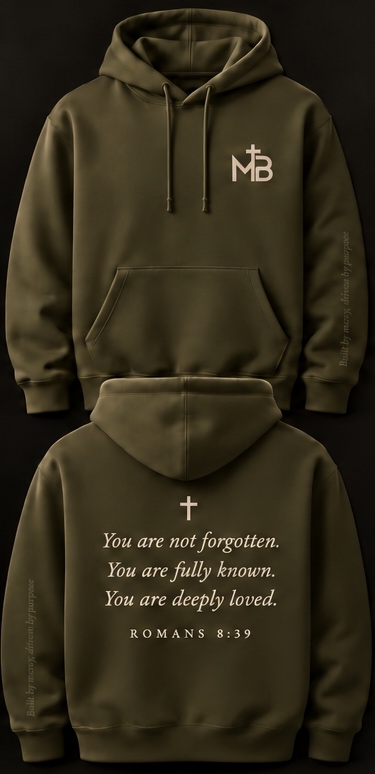
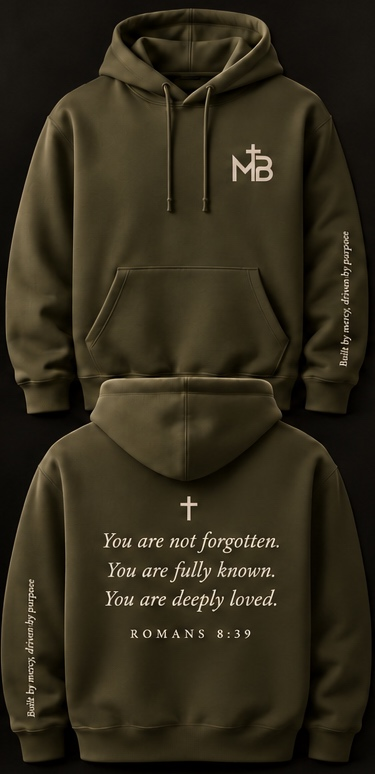
Revert "Use tonal sleeve lettering across hoodie previews"
This reverts commit b2077b0aaba2aa174bac1bfb99ac493bff6438e5.

diff --git a/index.html b/index.html
@@ -4,6 +4,6 @@
 .product-card .card-preorder{display:inline-block;margin-top:14px}
 .interest-form .form-status{margin:8px 0 0;font-size:.95rem}
 .interest-form .form-status.error{color:#ff8a80}
-</style></head><body><header class="site-header" aria-label="Site header"><a class="brand-lockup" href="#top" aria-label="Mercy Built home"><img class="header-logo" src="assets/mercy-built-logo.jpg" alt="Mercy Built"/></a><nav aria-label="Primary navigation"><a href="#story">Story</a><a href="#drop">First Drop</a><a href="#sports">Sports</a><a href="#bracelets">Bracelets</a><a href="#email">Join</a><a href="#want">Tell Us</a><a class="nav-preorder" href="preorder/">Preorder the hoodie</a></nav></header><main id="top"><section class="hero"><div class="hero-card hero-photo" aria-label="Mercy Built apparel preview"><img class="hero-product-image" src="assets/mercy-built-hero-products.png" alt="Mercy Built hats, tees, and polo in warm studio light"/></div><div class="hero-copy"><p class="eyebrow">Christian apparel for every occasion</p><h1>Not self-made.<br/>Mercy built.</h1><p class="lead">Built for training, everyday wear, the course, and wherever faith has to show up quietly without pretending we have it all figured out.</p><div class="hero-actions"><a class="button" href="preorder/">Request a hoodie preorder</a><dialog id="hoodie-dialog" class="hoodie-preorder" aria-labelledby="hoodie-title"><button class="hoodie-close" type="button" aria-label="Close hoodie preorder">×</button><p class="eyebrow">Mercy Built first release</p><h2 id="hoodie-title">Hoodie preorders</h2><form class="interest-form" action="/api/interest" method="post"><p>Pick your size and color. We’ll email you when it’s time to order. No payment is due today.</p><input type="hidden" name="form_type" value="hoodie-preorder"/><div class="form-row form-row-grid"><label class="field-stack">Size<select name="preferred_size" required=""><option value="" disabled="" selected="">Choose size</option><option>XS</option><option>S</option><option>M</option><option>L</option><option>XL</option><option>2XL</option><option>3XL</option></select></label><label class="field-stack">Color<select name="preferred_color" required=""><option value="" disabled="" selected="">Choose color</option><option>Black</option><option>Olive</option><option>Cream</option><option>Blush Pink</option></select></label></div><label class="field-stack">Name<input autoComplete="name" maxLength="120" required="" name="name"/></label><label class="field-stack">Email address<input type="email" autoComplete="email" maxLength="180" required="" name="email"/></label><button type="submit">Send preorder request</button></form></dialog><a class="text-link" href="#story">Read the story</a></div></div></section><section id="story" class="story section-grid"><div><p class="eyebrow">The foundation</p><h2>Built by mercy, not ego.</h2></div><div class="story-copy"><p>Mercy Built began with a personal faith journey: baptism, surrender, and the daily work of becoming a better Christian man. The name is a reminder that strength does not start with pride. It starts with God meeting us in our weakness and rebuilding us by His mercy.</p><p>This is apparel for people still being formed. For training hard, leading humbly, falling short, getting back up, and continuing to walk with Christ.</p></div></section><section id="drop" class="drop"><div class="section-heading"><p class="eyebrow">First drop direction</p><h2>Faith-built essentials.</h2></div><figure class="product-board"><img src="assets/mercy-built-hats-polos.png" alt="Mercy Built black and cream hats with olive and black golf polos"/></figure><figure class="product-board product-board-small"><img src="assets/mercy-built-womens-pink-set.png" alt="Mercy Built blush pink hat and women&#x27;s polo with black MB cross logo"/></figure><figure class="product-board"><img src="assets/mercy-built-tees-corinthians.jpg" alt="Mercy Built tees in black, olive, cream, and pink with left chest logo and 2 Corinthians 5:17 back verse"/></figure><figure class="product-board"><img src="assets/mercy-built-hoodies-romans.jpg?v=tonal" alt="Mercy Built hoodies in four colors with lettering on the left sleeve and the Romans 8:39 back message"/></figure><figure class="product-board"><img src="assets/mercy-built-womens-sweatpants.png" alt="Mercy Built women&#x27;s sweatpants in black, olive, cream, and pink with MB cross logo"/></figure><figure class="product-board"><img src="assets/mercy-built-training-collection.png" alt="Mercy Built premium training collection with gym shorts, leggings, workout shirts, and tanks"/></figure><figure class="product-board"><img src="assets/mercy-built-womens-fit-standard.png" alt="Mercy Built women&#x27;s leggings and shorts fit standard with no front seam, shorter shorts, and sculpting fit"/></figure><div class="product-grid" aria-label="First drop product concepts"><article class="product-card"><span class="product-tag">01</span><h3>Training Tees</h3><p>Black, olive, cream, and pink tees with a small left-chest MB mark and a 2 Corinthians 5:17 back design about being made new.</p></article><article class="product-card product-card-featured"><span class="product-tag">02</span><h3>Everyday Hats</h3><p>Black, cream, charcoal, and olive caps with the MB cross mark up front and short scripture references on the side.</p></article><article class="product-card"><span class="product-tag">03</span><h3>Golf Polos</h3><p>Refined performance polos with a subtle MB chest mark, made to carry the brand without feeling loud.</p></article><article class="product-card"><span class="product-tag">04</span><h3>Hoodies</h3><p>A heavier comfort piece with a quiet front mark and the Romans 8:39 back message, “You are not forgotten. You are fully known. You are deeply loved.”</p><p>“Built by mercy, driven by purpose” runs up the left sleeve on every color.</p><a class="button card-preorder" href="preorder/">Preorder the hoodie</a></article><article class="product-card product-card-featured"><span class="product-tag">05</span><h3>Women&#x27;s Sweatpants</h3><p>Soft fleece sweats in black, olive, cream, and pink with a small MB cross mark and quiet scripture detail.</p></article><article class="product-card"><span class="product-tag">06</span><h3>Training Collection</h3><p>Premium-feel gym shorts, leggings, workout shirts, and tanks with smooth performance fabric and quiet MB details.</p></article><article class="product-card product-card-featured"><span class="product-tag">07</span><h3>Women&#x27;s Fit Standard</h3><p>No front seam, shorter training shorts, high-rise support, buttery-soft fabric, and a sculpting fit designed to flatter.</p></article></div></section><section id="sports" class="drop sports-section" aria-labelledby="sports-heading"><div class="section-heading"><p class="eyebrow">MercyBuilt Sport · Coming soon</p><h2 id="sports-heading">Faith in every arena.</h2><p class="collection-intro">On the mats. In the ring. On the course. On the field. Carry the same foundation into every discipline.</p></div><figure class="product-board concept-board"><a href="assets/mercy-built-sports-options-v2.png" target="_blank" rel="noopener noreferrer" aria-label="View full-size MercyBuilt sports picture options"><img src="assets/mercy-built-sports-options-v3.png" alt="MercyBuilt sport shirt design options A and B for MMA, BJJ, Jiu Jitsu, Muay Thai, Golf, and Baseball"/></a><figcaption>Picture options A &amp; B for every sport: cool Mercy Built shirts with the sport name, plus rash guards and shorts where they fit. All sports collections coming soon. Tap to view full size.</figcaption></figure><div class="product-grid" aria-label="MercyBuilt sports collections"><article class="product-card"><span class="product-tag">MercyBuilt Sport / 01</span><h3>MercyBuilt MMA</h3><span class="coming-soon-badge">Coming soon</span><p>Cool Mercy Built MMA shirts, plus rash guards and fight shorts for the work between rounds.</p></article><article class="product-card product-card-featured"><span class="product-tag">MercyBuilt Sport / 02</span><h3>MercyBuilt BJJ</h3><span class="coming-soon-badge">Coming soon</span><p>Mercy Built BJJ shirts alongside Brazilian Jiu Jitsu rash guards and grappling shorts.</p></article><article class="product-card"><span class="product-tag">MercyBuilt Sport / 03</span><h3>MercyBuilt Jiu Jitsu</h3><span class="coming-soon-badge">Coming soon</span><p>Mercy Built Jiu Jitsu shirts, rash guards, and shorts for the Jiu Jitsu community.</p></article><article class="product-card product-card-featured"><span class="product-tag">MercyBuilt Sport / 04</span><h3>MercyBuilt Muay Thai</h3><span class="coming-soon-badge">Coming soon</span><p>Mercy Built Muay Thai shirts with rash guards and Thai shorts shaped around discipline.</p></article><article class="product-card"><span class="product-tag">MercyBuilt Sport / 05</span><h3>MercyBuilt Golf</h3><span class="coming-soon-badge">Coming soon</span><p>Simple sport shirts that say Mercy Built Golf, with subtle hats and layers for every round.</p></article><article class="product-card product-card-featured"><span class="product-tag">MercyBuilt Sport / 06</span><h3>MercyBuilt Baseball</h3><span class="coming-soon-badge">Coming soon</span><p>Simple shirts that say Mercy Built Baseball, with caps and practice-ready layers.</p></article></div><div class="collection-footer"><p>These collections are in development. Tell us which sport and gear you want to see first.</p><a class="text-link" href="#want">Choose your collection →</a></div></section><section id="bracelets" class="drop bracelets-section" aria-labelledby="bracelets-heading"><div class="section-heading"><p class="eyebrow">Everyday reminders · Bracelet concepts</p><h2 id="bracelets-heading">Small reminder.<br/>Strong foundation.</h2><p class="collection-intro">A simple way to carry MercyBuilt with you, share your faith, or give someone a little encouragement.</p></div><figure class="product-board concept-board"><a href="assets/mercy-built-bracelet-options.png" target="_blank" rel="noopener noreferrer" aria-label="View full-size MercyBuilt bracelet picture options"><img src="assets/mercy-built-bracelet-options.png" alt="Three MercyBuilt bracelet design options: silicone bands in four colors, Not Self-Made scripture bands, and adjustable woven bracelets"/></a><figcaption>Compare A: Mercy Built Band, B: Scripture Band, and C: Daily Mercy. Design mockups. Tap to view full size.</figcaption></figure><div class="product-grid" aria-label="MercyBuilt bracelet concepts"><article class="product-card product-card-featured"><span class="product-tag">01 / Silicone</span><h3>Mercy Built Band</h3><p>A simple silicone wristband concept with MERCY BUILT lettering. Black, olive, cream, and pink color directions.</p></article><article class="product-card"><span class="product-tag">02 / Scripture</span><h3>Not Self-Made</h3><p>NOT SELF-MADE. MERCY BUILT. on the outside, with Romans 8:39 as a quiet reminder inside the band.</p></article><article class="product-card product-card-featured"><span class="product-tag">03 / Woven</span><h3>Daily Mercy</h3><p>An adjustable woven bracelet concept with a small MercyBuilt detail. Understated enough for everyday wear.</p></article></div><div class="collection-footer"><p>Individual bands and shareable packs are being explored. Final materials, sizing, and pricing will follow sampling.</p><a class="text-link" href="#want">Tell us your bracelet pick →</a></div></section><section id="join" class="join"><div><p class="eyebrow">Coming soon</p><h2>Get first-drop updates.</h2><p>Drop your email and we will keep you updated as Mercy Built gets ready to launch.</p></div><form class="signup interest-form" name="first-drop-interest" action="/api/interest" method="post"><div class="field-stack"><label for="email">Email address</label><input id="email" type="email" placeholder="you@example.com" autoComplete="email" required="" name="email"/></div><button type="submit">Keep me updated</button><p class="form-note">No spam. Just Mercy Built launch updates and first-drop news.</p></form></section><section id="want" class="join want-section"><div><p class="eyebrow">First order</p><h2>Tell us what you want.</h2><p>Help us order smarter. Pick the item, size, and color you would actually buy when the first drop opens.</p></div><form class="signup interest-form" name="first-drop-product-interest" action="/api/interest" method="post"><input type="hidden" name="form_type" value="product-interest"/><div class="field-stack"><label for="want-email">Email address</label><input id="want-email" type="email" placeholder="you@example.com" autoComplete="email" required="" name="email"/></div><div class="field-stack"><label for="want-name">Name</label><input id="want-name" type="text" placeholder="Your name" autoComplete="name" name="name"/></div><div class="field-stack"><label for="product">What do you want?</label><select id="product" name="product_interest" required=""><option value="">Pick one</option><option>2 Corinthians 5:17 tee</option><option>Romans 8:39 hoodie</option><option>MB cross hat</option><option>Psalm side-stitch hat</option><option>Golf polo</option><option>Women&#x27;s pink hat / polo</option><option>Women&#x27;s sweatpants</option><option>Men&#x27;s gym shorts</option><option>Women&#x27;s no-front-seam short leggings</option><option>Women&#x27;s no-front-seam full-length leggings</option><option>Women&#x27;s shorter training shorts</option><option>Men&#x27;s workout shirt</option><option>Women&#x27;s workout shirt</option><option>Training tank</option><optgroup label="MercyBuilt Sport"><option>MercyBuilt MMA</option><option>MercyBuilt BJJ</option><option>MercyBuilt Jiu Jitsu</option><option>MercyBuilt Muay Thai</option><option>MercyBuilt Golf</option><option>MercyBuilt Baseball</option></optgroup><optgroup label="MercyBuilt Bracelets"><option>Mercy Built silicone band</option><option>Not Self-Made scripture band</option><option>Daily Mercy woven bracelet</option><option>Bracelet multipack</option></optgroup><option>Multiple designs</option></select></div><div class="form-row form-row-grid"><div class="field-stack"><label for="size">Preferred size</label><select id="size" name="preferred_size"><option value="">Pick size</option><option>XS</option><option>S</option><option>M</option><option>L</option><option>XL</option><option>2XL</option><option>3XL</option><option>Hat only</option></select></div><div class="field-stack"><label for="color">Favorite color</label><select id="color" name="preferred_color"><option value="">Pick color</option><option>Black</option><option>Olive</option><option>Cream</option><option>Pink</option><option>Charcoal</option><option>No preference</option></select></div></div><div class="field-stack"><label for="quantity">Likely quantity</label><select id="quantity" name="quantity"><option>1</option><option>2</option><option>3</option><option>4+</option></select></div><div class="field-stack"><label for="notes">Anything else?</label><textarea id="notes" name="notes" rows="4" placeholder="Favorite fit, another color, another verse, or the design you want most."></textarea></div><button type="submit">Save my interest</button><p class="form-note">This saves to the same first-drop list so we can see what people are asking for.</p></form></section></main><footer><span>Mercy Built</span><span>Built by mercy. Proven daily.</span></footer><script src="https://cdn.jsdelivr.net/npm/@supabase/supabase-js@2"></script>
+</style></head><body><header class="site-header" aria-label="Site header"><a class="brand-lockup" href="#top" aria-label="Mercy Built home"><img class="header-logo" src="assets/mercy-built-logo.jpg" alt="Mercy Built"/></a><nav aria-label="Primary navigation"><a href="#story">Story</a><a href="#drop">First Drop</a><a href="#sports">Sports</a><a href="#bracelets">Bracelets</a><a href="#email">Join</a><a href="#want">Tell Us</a><a class="nav-preorder" href="preorder/">Preorder the hoodie</a></nav></header><main id="top"><section class="hero"><div class="hero-card hero-photo" aria-label="Mercy Built apparel preview"><img class="hero-product-image" src="assets/mercy-built-hero-products.png" alt="Mercy Built hats, tees, and polo in warm studio light"/></div><div class="hero-copy"><p class="eyebrow">Christian apparel for every occasion</p><h1>Not self-made.<br/>Mercy built.</h1><p class="lead">Built for training, everyday wear, the course, and wherever faith has to show up quietly without pretending we have it all figured out.</p><div class="hero-actions"><a class="button" href="preorder/">Request a hoodie preorder</a><dialog id="hoodie-dialog" class="hoodie-preorder" aria-labelledby="hoodie-title"><button class="hoodie-close" type="button" aria-label="Close hoodie preorder">×</button><p class="eyebrow">Mercy Built first release</p><h2 id="hoodie-title">Hoodie preorders</h2><form class="interest-form" action="/api/interest" method="post"><p>Pick your size and color. We’ll email you when it’s time to order. No payment is due today.</p><input type="hidden" name="form_type" value="hoodie-preorder"/><div class="form-row form-row-grid"><label class="field-stack">Size<select name="preferred_size" required=""><option value="" disabled="" selected="">Choose size</option><option>XS</option><option>S</option><option>M</option><option>L</option><option>XL</option><option>2XL</option><option>3XL</option></select></label><label class="field-stack">Color<select name="preferred_color" required=""><option value="" disabled="" selected="">Choose color</option><option>Black</option><option>Olive</option><option>Cream</option><option>Blush Pink</option></select></label></div><label class="field-stack">Name<input autoComplete="name" maxLength="120" required="" name="name"/></label><label class="field-stack">Email address<input type="email" autoComplete="email" maxLength="180" required="" name="email"/></label><button type="submit">Send preorder request</button></form></dialog><a class="text-link" href="#story">Read the story</a></div></div></section><section id="story" class="story section-grid"><div><p class="eyebrow">The foundation</p><h2>Built by mercy, not ego.</h2></div><div class="story-copy"><p>Mercy Built began with a personal faith journey: baptism, surrender, and the daily work of becoming a better Christian man. The name is a reminder that strength does not start with pride. It starts with God meeting us in our weakness and rebuilding us by His mercy.</p><p>This is apparel for people still being formed. For training hard, leading humbly, falling short, getting back up, and continuing to walk with Christ.</p></div></section><section id="drop" class="drop"><div class="section-heading"><p class="eyebrow">First drop direction</p><h2>Faith-built essentials.</h2></div><figure class="product-board"><img src="assets/mercy-built-hats-polos.png" alt="Mercy Built black and cream hats with olive and black golf polos"/></figure><figure class="product-board product-board-small"><img src="assets/mercy-built-womens-pink-set.png" alt="Mercy Built blush pink hat and women&#x27;s polo with black MB cross logo"/></figure><figure class="product-board"><img src="assets/mercy-built-tees-corinthians.jpg" alt="Mercy Built tees in black, olive, cream, and pink with left chest logo and 2 Corinthians 5:17 back verse"/></figure><figure class="product-board"><img src="assets/mercy-built-hoodies-romans.jpg?v=sleeves" alt="Mercy Built hoodies in four colors with lettering on the left sleeve and the Romans 8:39 back message"/></figure><figure class="product-board"><img src="assets/mercy-built-womens-sweatpants.png" alt="Mercy Built women&#x27;s sweatpants in black, olive, cream, and pink with MB cross logo"/></figure><figure class="product-board"><img src="assets/mercy-built-training-collection.png" alt="Mercy Built premium training collection with gym shorts, leggings, workout shirts, and tanks"/></figure><figure class="product-board"><img src="assets/mercy-built-womens-fit-standard.png" alt="Mercy Built women&#x27;s leggings and shorts fit standard with no front seam, shorter shorts, and sculpting fit"/></figure><div class="product-grid" aria-label="First drop product concepts"><article class="product-card"><span class="product-tag">01</span><h3>Training Tees</h3><p>Black, olive, cream, and pink tees with a small left-chest MB mark and a 2 Corinthians 5:17 back design about being made new.</p></article><article class="product-card product-card-featured"><span class="product-tag">02</span><h3>Everyday Hats</h3><p>Black, cream, charcoal, and olive caps with the MB cross mark up front and short scripture references on the side.</p></article><article class="product-card"><span class="product-tag">03</span><h3>Golf Polos</h3><p>Refined performance polos with a subtle MB chest mark, made to carry the brand without feeling loud.</p></article><article class="product-card"><span class="product-tag">04</span><h3>Hoodies</h3><p>A heavier comfort piece with a quiet front mark and the Romans 8:39 back message, “You are not forgotten. You are fully known. You are deeply loved.”</p><p>“Built by mercy, driven by purpose” runs up the left sleeve on every color.</p><a class="button card-preorder" href="preorder/">Preorder the hoodie</a></article><article class="product-card product-card-featured"><span class="product-tag">05</span><h3>Women&#x27;s Sweatpants</h3><p>Soft fleece sweats in black, olive, cream, and pink with a small MB cross mark and quiet scripture detail.</p></article><article class="product-card"><span class="product-tag">06</span><h3>Training Collection</h3><p>Premium-feel gym shorts, leggings, workout shirts, and tanks with smooth performance fabric and quiet MB details.</p></article><article class="product-card product-card-featured"><span class="product-tag">07</span><h3>Women&#x27;s Fit Standard</h3><p>No front seam, shorter training shorts, high-rise support, buttery-soft fabric, and a sculpting fit designed to flatter.</p></article></div></section><section id="sports" class="drop sports-section" aria-labelledby="sports-heading"><div class="section-heading"><p class="eyebrow">MercyBuilt Sport · Coming soon</p><h2 id="sports-heading">Faith in every arena.</h2><p class="collection-intro">On the mats. In the ring. On the course. On the field. Carry the same foundation into every discipline.</p></div><figure class="product-board concept-board"><a href="assets/mercy-built-sports-options-v2.png" target="_blank" rel="noopener noreferrer" aria-label="View full-size MercyBuilt sports picture options"><img src="assets/mercy-built-sports-options-v3.png" alt="MercyBuilt sport shirt design options A and B for MMA, BJJ, Jiu Jitsu, Muay Thai, Golf, and Baseball"/></a><figcaption>Picture options A &amp; B for every sport: cool Mercy Built shirts with the sport name, plus rash guards and shorts where they fit. All sports collections coming soon. Tap to view full size.</figcaption></figure><div class="product-grid" aria-label="MercyBuilt sports collections"><article class="product-card"><span class="product-tag">MercyBuilt Sport / 01</span><h3>MercyBuilt MMA</h3><span class="coming-soon-badge">Coming soon</span><p>Cool Mercy Built MMA shirts, plus rash guards and fight shorts for the work between rounds.</p></article><article class="product-card product-card-featured"><span class="product-tag">MercyBuilt Sport / 02</span><h3>MercyBuilt BJJ</h3><span class="coming-soon-badge">Coming soon</span><p>Mercy Built BJJ shirts alongside Brazilian Jiu Jitsu rash guards and grappling shorts.</p></article><article class="product-card"><span class="product-tag">MercyBuilt Sport / 03</span><h3>MercyBuilt Jiu Jitsu</h3><span class="coming-soon-badge">Coming soon</span><p>Mercy Built Jiu Jitsu shirts, rash guards, and shorts for the Jiu Jitsu community.</p></article><article class="product-card product-card-featured"><span class="product-tag">MercyBuilt Sport / 04</span><h3>MercyBuilt Muay Thai</h3><span class="coming-soon-badge">Coming soon</span><p>Mercy Built Muay Thai shirts with rash guards and Thai shorts shaped around discipline.</p></article><article class="product-card"><span class="product-tag">MercyBuilt Sport / 05</span><h3>MercyBuilt Golf</h3><span class="coming-soon-badge">Coming soon</span><p>Simple sport shirts that say Mercy Built Golf, with subtle hats and layers for every round.</p></article><article class="product-card product-card-featured"><span class="product-tag">MercyBuilt Sport / 06</span><h3>MercyBuilt Baseball</h3><span class="coming-soon-badge">Coming soon</span><p>Simple shirts that say Mercy Built Baseball, with caps and practice-ready layers.</p></article></div><div class="collection-footer"><p>These collections are in development. Tell us which sport and gear you want to see first.</p><a class="text-link" href="#want">Choose your collection →</a></div></section><section id="bracelets" class="drop bracelets-section" aria-labelledby="bracelets-heading"><div class="section-heading"><p class="eyebrow">Everyday reminders · Bracelet concepts</p><h2 id="bracelets-heading">Small reminder.<br/>Strong foundation.</h2><p class="collection-intro">A simple way to carry MercyBuilt with you, share your faith, or give someone a little encouragement.</p></div><figure class="product-board concept-board"><a href="assets/mercy-built-bracelet-options.png" target="_blank" rel="noopener noreferrer" aria-label="View full-size MercyBuilt bracelet picture options"><img src="assets/mercy-built-bracelet-options.png" alt="Three MercyBuilt bracelet design options: silicone bands in four colors, Not Self-Made scripture bands, and adjustable woven bracelets"/></a><figcaption>Compare A: Mercy Built Band, B: Scripture Band, and C: Daily Mercy. Design mockups. Tap to view full size.</figcaption></figure><div class="product-grid" aria-label="MercyBuilt bracelet concepts"><article class="product-card product-card-featured"><span class="product-tag">01 / Silicone</span><h3>Mercy Built Band</h3><p>A simple silicone wristband concept with MERCY BUILT lettering. Black, olive, cream, and pink color directions.</p></article><article class="product-card"><span class="product-tag">02 / Scripture</span><h3>Not Self-Made</h3><p>NOT SELF-MADE. MERCY BUILT. on the outside, with Romans 8:39 as a quiet reminder inside the band.</p></article><article class="product-card product-card-featured"><span class="product-tag">03 / Woven</span><h3>Daily Mercy</h3><p>An adjustable woven bracelet concept with a small MercyBuilt detail. Understated enough for everyday wear.</p></article></div><div class="collection-footer"><p>Individual bands and shareable packs are being explored. Final materials, sizing, and pricing will follow sampling.</p><a class="text-link" href="#want">Tell us your bracelet pick →</a></div></section><section id="join" class="join"><div><p class="eyebrow">Coming soon</p><h2>Get first-drop updates.</h2><p>Drop your email and we will keep you updated as Mercy Built gets ready to launch.</p></div><form class="signup interest-form" name="first-drop-interest" action="/api/interest" method="post"><div class="field-stack"><label for="email">Email address</label><input id="email" type="email" placeholder="you@example.com" autoComplete="email" required="" name="email"/></div><button type="submit">Keep me updated</button><p class="form-note">No spam. Just Mercy Built launch updates and first-drop news.</p></form></section><section id="want" class="join want-section"><div><p class="eyebrow">First order</p><h2>Tell us what you want.</h2><p>Help us order smarter. Pick the item, size, and color you would actually buy when the first drop opens.</p></div><form class="signup interest-form" name="first-drop-product-interest" action="/api/interest" method="post"><input type="hidden" name="form_type" value="product-interest"/><div class="field-stack"><label for="want-email">Email address</label><input id="want-email" type="email" placeholder="you@example.com" autoComplete="email" required="" name="email"/></div><div class="field-stack"><label for="want-name">Name</label><input id="want-name" type="text" placeholder="Your name" autoComplete="name" name="name"/></div><div class="field-stack"><label for="product">What do you want?</label><select id="product" name="product_interest" required=""><option value="">Pick one</option><option>2 Corinthians 5:17 tee</option><option>Romans 8:39 hoodie</option><option>MB cross hat</option><option>Psalm side-stitch hat</option><option>Golf polo</option><option>Women&#x27;s pink hat / polo</option><option>Women&#x27;s sweatpants</option><option>Men&#x27;s gym shorts</option><option>Women&#x27;s no-front-seam short leggings</option><option>Women&#x27;s no-front-seam full-length leggings</option><option>Women&#x27;s shorter training shorts</option><option>Men&#x27;s workout shirt</option><option>Women&#x27;s workout shirt</option><option>Training tank</option><optgroup label="MercyBuilt Sport"><option>MercyBuilt MMA</option><option>MercyBuilt BJJ</option><option>MercyBuilt Jiu Jitsu</option><option>MercyBuilt Muay Thai</option><option>MercyBuilt Golf</option><option>MercyBuilt Baseball</option></optgroup><optgroup label="MercyBuilt Bracelets"><option>Mercy Built silicone band</option><option>Not Self-Made scripture band</option><option>Daily Mercy woven bracelet</option><option>Bracelet multipack</option></optgroup><option>Multiple designs</option></select></div><div class="form-row form-row-grid"><div class="field-stack"><label for="size">Preferred size</label><select id="size" name="preferred_size"><option value="">Pick size</option><option>XS</option><option>S</option><option>M</option><option>L</option><option>XL</option><option>2XL</option><option>3XL</option><option>Hat only</option></select></div><div class="field-stack"><label for="color">Favorite color</label><select id="color" name="preferred_color"><option value="">Pick color</option><option>Black</option><option>Olive</option><option>Cream</option><option>Pink</option><option>Charcoal</option><option>No preference</option></select></div></div><div class="field-stack"><label for="quantity">Likely quantity</label><select id="quantity" name="quantity"><option>1</option><option>2</option><option>3</option><option>4+</option></select></div><div class="field-stack"><label for="notes">Anything else?</label><textarea id="notes" name="notes" rows="4" placeholder="Favorite fit, another color, another verse, or the design you want most."></textarea></div><button type="submit">Save my interest</button><p class="form-note">This saves to the same first-drop list so we can see what people are asking for.</p></form></section></main><footer><span>Mercy Built</span><span>Built by mercy. Proven daily.</span></footer><script src="https://cdn.jsdelivr.net/npm/@supabase/supabase-js@2"></script>
 <script src="assets/site.js"></script>
 </body></html>

diff --git a/preorder/index.html b/preorder/index.html
@@ -8,7 +8,7 @@
 <meta property="og:title" content="Mercy Built | Hoodie Preorder - First Release">
 <meta property="og:description" content="Reserve your size and color for the first Mercy Built release.">
 <meta property="og:type" content="website">
-<meta property="og:image" content="https://mercybuilt.com/assets/mercy-built-hoodies-romans.jpg?v=tonal">
+<meta property="og:image" content="https://mercybuilt.com/assets/mercy-built-hoodies-romans.jpg?v=sleeves">
 <link rel="icon" href="../assets/mb-mark.jpg">
 <meta name="theme-color" content="#0d0d0d">
 <link rel="preconnect" href="https://fonts.googleapis.com"><link rel="preconnect" href="https://fonts.gstatic.com" crossorigin>
@@ -82,7 +82,7 @@ footer{padding:30px 0 40px;text-align:center;color:var(--muted);font-size:12px;l
   <section id="sleeve">
     <h2>The sleeve detail</h2>
     <p class="hint">“Built by mercy, driven by purpose” runs up the forearm on all four colors.</p>
-    <img src="../assets/hoodie-sleeve-detail.jpg?v=tonal" alt="Design preview of small muted lettering following the fabric near the cuff of the black hoodie" width="1672" height="941" loading="lazy" style="display:block;width:100%;height:auto;border-radius:12px">
+    <img src="../assets/hoodie-sleeve-detail.jpg?v=2" alt="Design preview of small muted lettering following the fabric near the cuff of the black hoodie" width="1672" height="941" loading="lazy" style="display:block;width:100%;height:auto;border-radius:12px">
   </section>
 
   <section id="preorder">
@@ -112,7 +112,7 @@ footer{padding:30px 0 40px;text-align:center;color:var(--muted);font-size:12px;l
 </main>
 <footer>Mercy Built &middot; Not self-made. Mercy built. &middot; <a href="../">mercybuilt.com</a></footer>
 
-<script src="config.js?v=romans-839-tonal"></script>
+<script src="config.js?v=romans-839-sleeves"></script>
 <script src="https://cdn.jsdelivr.net/npm/@supabase/supabase-js@2"></script>
 <script>
 (function(){

diff --git a/preorder/config.js b/preorder/config.js
@@ -9,13 +9,13 @@
 // ============================================================
 window.MB_CONFIG = {
   colors: [
-    { name: "Black",      hex: "#131210", image: "../assets/hoodie-romans-black.jpg?v=tonal" },
-    { name: "Olive",      hex: "#4a4630", image: "../assets/hoodie-romans-olive.jpg?v=tonal" },
-    { name: "Cream",      hex: "#d8c6b5", image: "../assets/hoodie-romans-cream.jpg?v=tonal" },
-    { name: "Blush Pink", hex: "#ce9a8e", image: "../assets/hoodie-romans-blush-pink.jpg?v=tonal" }
+    { name: "Black",      hex: "#131210", image: "../assets/hoodie-romans-black.jpg?v=sleeves" },
+    { name: "Olive",      hex: "#4a4630", image: "../assets/hoodie-romans-olive.jpg?v=sleeves" },
+    { name: "Cream",      hex: "#d8c6b5", image: "../assets/hoodie-romans-cream.jpg?v=sleeves" },
+    { name: "Blush Pink", hex: "#ce9a8e", image: "../assets/hoodie-romans-blush-pink.jpg?v=sleeves" }
   ],
   product: "Romans 8:39 hoodie",
-  lineup: "../assets/mercy-built-hoodies-romans.jpg?v=tonal",
+  lineup: "../assets/mercy-built-hoodies-romans.jpg?v=sleeves",
   sizes: ["XS", "S", "M", "L", "XL", "2XL", "3XL"],
   price: "",
   supabaseUrl: "https://wkftusmqasujgqgokpgw.supabase.co",
